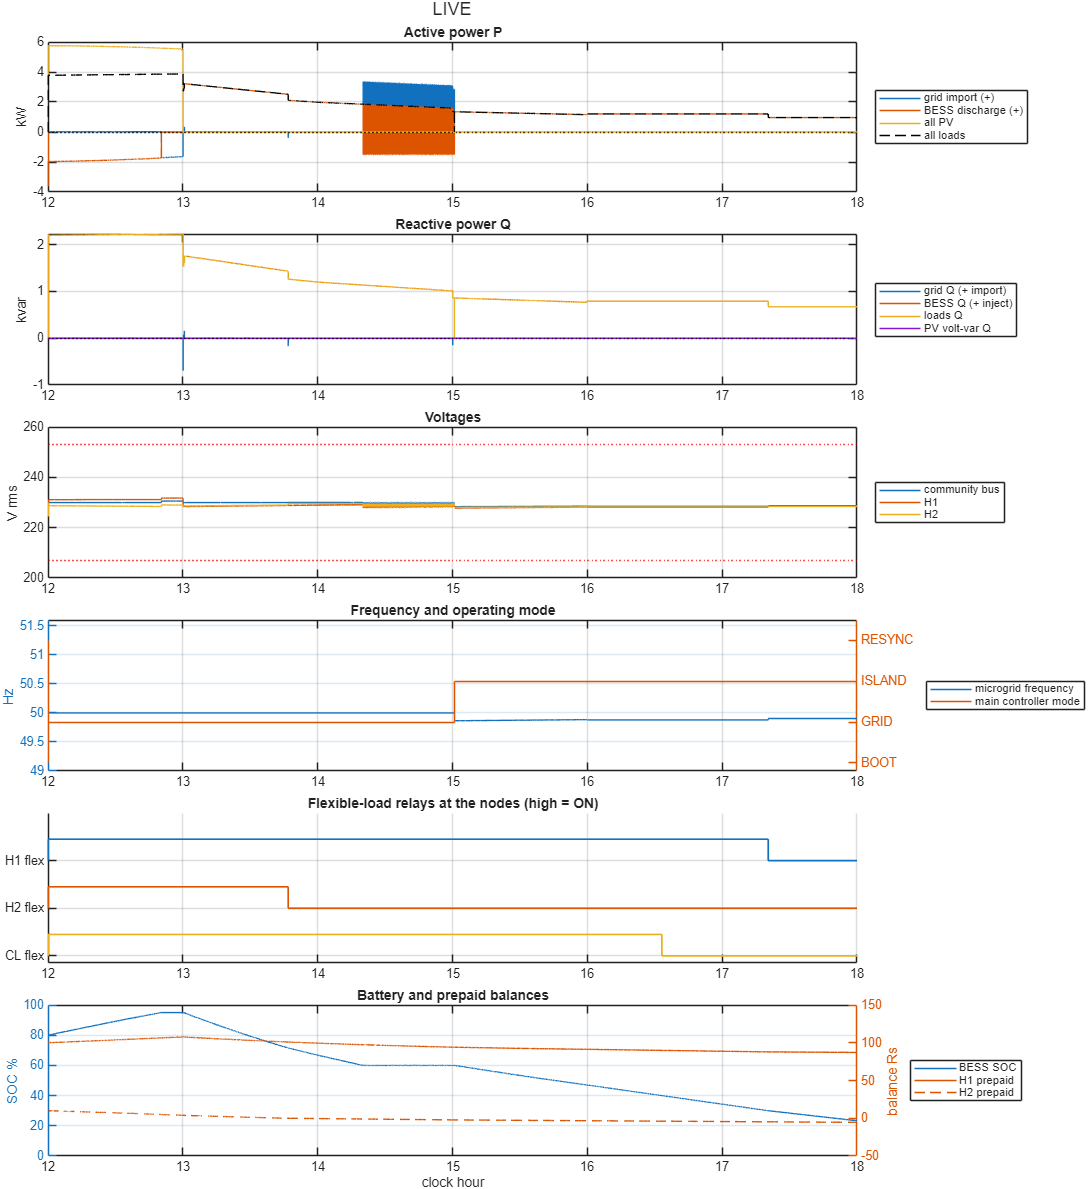
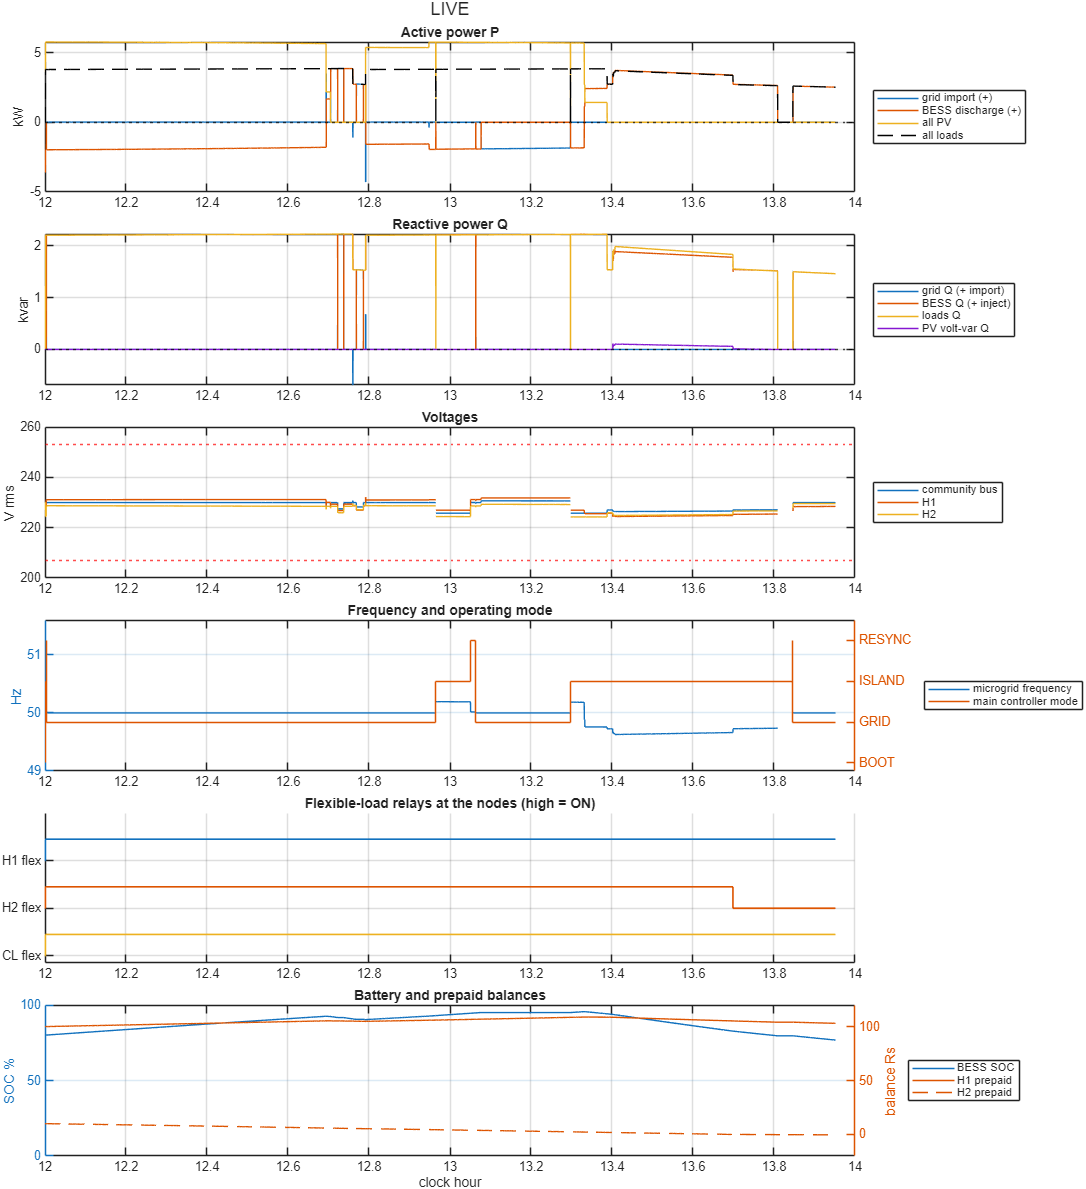
Live demo passed
v2 debugged

diff --git a/mg_hier/hil/live_panel.m b/mg_hier/hil/live_panel.m
@@ -1,13 +1,12 @@
 function f = live_panel()
 % LIVE_PANEL  Control panel for a live demo (run_hil_nodes / run_live_pi with SCEN = 'LIVE').
 % Left: WORLD knobs - change the simulated power system, like a bench.
-% Middle: REQUESTS - sent to the main controller exactly like dashboard buttons;
-%         it checks each one and may refuse it (the answer appears in the log).
+% (REQUESTS column removed for now: no dashboard/operator inputs in this demo.)
 % Right: live read-outs (mode, battery, grid, every node's relays, balances, log).
 live_inputs('reset');
 old = findall(groot, 'Tag', 'mgLivePanel'); delete(old);
-f = uifigure('Name', 'URJA microgrid - live demo panel', 'Position', [40 60 1060 680], 'Tag', 'mgLivePanel');
-g = uigridlayout(f, [1 3]); g.ColumnWidth = {300, 300, '1x'};
+f = uifigure('Name', 'URJA microgrid - live demo panel', 'Position', [40 60 900 680], 'Tag', 'mgLivePanel');
+g = uigridlayout(f, [1 2]); g.ColumnWidth = {320, '1x'};
 
 % ---------- WORLD ----------
 w = uipanel(g, 'Title', 'WORLD (simulated power system)', 'FontWeight', 'bold');
@@ -36,7 +35,7 @@ ids = {'H1', 'H2', 'CL', 'SB'};
 for k = 1:4
     uicheckbox(gw, 'Text', ['Cut link ' ids{k}], 'ValueChangedFcn', @(c,~) live_inputs('set_el', 'link_down', [k c.Value]));
 end
-uilabel(gw, 'Text', 'E-stop (virtual nodes)', 'FontWeight', 'bold'); uilabel(gw, 'Text', 'held = pressed');
+uilabel(gw, 'Text', 'E-stop (any node)', 'FontWeight', 'bold'); uilabel(gw, 'Text', 'held = pressed');
 for k = 1:4
     uibutton(gw, 'state', 'Text', ['E-STOP ' ids{k}], 'ValueChangedFcn', @(b,~) live_inputs('set_el', 'estop', [k b.Value]));
 end
@@ -46,20 +45,10 @@ end
 uilabel(gw, 'Text', 'RFID card at H2', 'FontWeight', 'bold'); uilabel(gw, 'Text', '');
 uibutton(gw, 'Text', 'Tap valid card (+Rs 20)', 'ButtonPushedFcn', @(~,~) live_inputs('tap', 2, 2712847106));
 uibutton(gw, 'Text', 'Tap wrong card',          'ButtonPushedFcn', @(~,~) live_inputs('tap', 2, 305419896));
+uilabel(gw, 'Text', ''); uilabel(gw, 'Text', '');
+uibutton(gw, 'Text', 'STOP run', 'BackgroundColor', [1 .8 .8], 'ButtonPushedFcn', @(~,~) live_inputs('set', 'stop', 1));
 
-% ---------- REQUESTS ----------
-r = uipanel(g, 'Title', 'REQUESTS to the main controller', 'FontWeight', 'bold');
-gr = uigridlayout(r, [9 1]); gr.RowHeight = repmat({30}, 1, 9);
-uilabel(gr, 'Text', 'Operator (main dashboard)', 'FontWeight', 'bold');
-uibutton(gr, 'Text', 'Restrict CL pump 10 min',  'ButtonPushedFcn', @(~,~) req('op', 'restrict', 'CL', 1, 600));
-uibutton(gr, 'Text', 'Restrict H2 flexible 10 min', 'ButtonPushedFcn', @(~,~) req('op', 'restrict', 'H2', 1, 600));
-uibutton(gr, 'Text', 'Release all restrictions', 'ButtonPushedFcn', @(~,~) cellfun(@(t) req('op', 'restrict', t, 0, 0), {'H1','H2','CL'}));
-uibutton(gr, 'Text', 'TRY: cut H2 critical load (must be refused)', 'ButtonPushedFcn', @(~,~) req('op', 'cut_critical', 'H2', 1, 60));
-uilabel(gr, 'Text', 'Household H1 (user dashboard)', 'FontWeight', 'bold');
-uibutton(gr, 'Text', 'H1: switch my flexible load off 5 min', 'ButtonPushedFcn', @(~,~) req('user/H1', 'user_flex', 'H1', 0, 300));
-uibutton(gr, 'Text', 'TRY: H1 switches off H2 (must be refused)', 'ButtonPushedFcn', @(~,~) req('user/H1', 'user_flex', 'H2', 0, 300));
-uibutton(gr, 'Text', 'STOP run', 'BackgroundColor', [1 .8 .8], 'ButtonPushedFcn', @(~,~) live_inputs('set', 'stop', 1));
-
+gw.RowHeight = repmat({22}, 1, numel(gw.RowHeight)); gw.RowSpacing = 4; gw.Scrollable = 'on';   % scroll if the window is short
 % ---------- READ-OUTS ----------
 s = uipanel(g, 'Title', 'LIVE STATUS', 'FontWeight', 'bold');
 gs = uigridlayout(s, [3 1]); gs.RowHeight = {150, 110, '1x'};

diff --git a/mg_hier/hil/node_exchange_twin.m b/mg_hier/hil/node_exchange_twin.m
@@ -6,7 +6,12 @@ function f = node_exchange_twin(lk, id, P, lcd)
 if nargin < 4, lcd = false; end
 role = find(strcmp([P.load_id, {'SB'}], id));
 if strcmp(id, 'SB'), st = node_sb_init(); else, st = node_load_init(); end
+lost = false; lost_at = 0; RETRY_TICKS = 40;   % board dropped: the twin stands in, retry every 40 ticks
     function reply = xch(line, seq)
+        if lost
+            if seq - lost_at >= RETRY_TICKS, try_reconnect(seq); end
+            if lost, reply = twin_only(line, seq); return; end
+        end
         if strcmp(line, 'R')                     % technician reset: board and twin start over
             writeline(lk.sp, 'R'); t0 = tic;
             while toc(t0) < 3 && ~strcmp(strtrim(readline(lk.sp)), 'READY'), end
@@ -17,7 +22,17 @@ if strcmp(id, 'SB'), st = node_sb_init(); else, st = node_load_init(); end
             di = display_info('get');
             writeline(lk.sp, sprintf('D,%d,%d,%.1f,%d', seq, di.mode, di.total_w, role));
         end
-        reply = node_link_exchange(lk, line, seq);
+        es_panel = 0;                            % live-panel E-stop button for this node -> board (S line, no reply)
+        try, li = live_inputs('get'); es_panel = double(li.estop(role) > 0); catch, end
+        try, writeline(lk.sp, sprintf('S,%d', es_panel)); catch, end
+        try
+            reply = node_link_exchange(lk, line, seq);
+        catch e
+            fprintf(2, '\n*** %s board on %s lost at tick %d (%s).\n    MATLAB twin stands in for it; reconnect tried every %d ticks.\n', ...
+                    id, lk.port, seq, e.message, RETRY_TICKS);
+            lost = true; lost_at = seq;
+            reply = twin_only(line, seq); return;
+        end
         % the E-stop button is on the board, so the twin learns it from the reply
         % (hstate 3 / clamped 2) and must then behave identically
         if line(1) == 'L'
@@ -32,6 +47,35 @@ if strcmp(id, 'SB'), st = node_sb_init(); else, st = node_load_init(); end
         node_twin_count('add', ~strcmp(reply, ref));
         if ~strcmp(reply, ref) && node_twin_count('get') <= 5
             fprintf('  %s tick %d differs\n    board: %s\n    twin : %s\n', id, seq, reply, ref);
+        end
+    end
+    function reply = twin_only(line, seq)
+        % board missing: the twin answers alone (same rules, no E-stop button)
+        if strcmp(line, 'R')
+            if strcmp(id, 'SB'), st = node_sb_init(); else, st = node_load_init(); end
+            reply = 'READY'; return;
+        end
+        if line(1) == 'L'
+            [st, r] = node_load_step(st, node_lines('dec_L', line), P.node, P.sim.dt, false);
+            reply = node_lines('enc_l', seq, r);
+        else
+            [st, r] = node_sb_step(st, node_lines('dec_B', line), P.node, P.bess, false);
+            reply = node_lines('enc_b', seq, r);
+        end
+    end
+    function try_reconnect(seq)
+        lost_at = seq; port = lk.port;
+        try, delete(lk.sp); catch, end
+        if ~any(serialportlist("available") == port)
+            fprintf(2, '    %s: %s not present yet (replug USB?)\n', id, port); return;
+        end
+        try
+            lk = node_link_open(port, P);            % board answers READY = fresh state
+            if strcmp(id, 'SB'), st = node_sb_init(); else, st = node_load_init(); end
+            lost = false;
+            fprintf('    %s board on %s back at tick %d (node state restarted: counters, lockouts)\n', id, port, seq);
+        catch e
+            fprintf(2, '    %s: reconnect failed (%s)\n', id, e.message);
         end
     end
 f = @xch;

diff --git a/mg_hier/pi/pi_link_open.m b/mg_hier/pi/pi_link_open.m
@@ -7,21 +7,56 @@ function link = pi_link_open(host, user, pass, port)
 % link.close()               disconnects
 % Needs the Industrial Communication Toolbox (mqttclient).
 if nargin < 4, port = 1883; end
-mq = mqttclient("tcp://" + string(host), Port = port, Username = string(user), ...
-                Password = string(pass), ClientID = "mgctl-matlab-" + string(randi(1e6)));
-assert(mq.Connected, 'could not connect to the Pi broker at %s:%d as %s', host, port, user);
-subscribe(mq, "mg/cmd/#", QualityOfService = 0);
-subscribe(mq, "mg/sim/#", QualityOfService = 0);   % demo bench knobs
+cfg = struct('host', string(host), 'port', port, 'user', string(user), 'pass', string(pass));
+mq = connect(cfg);
+assert(~isempty(mq), 'could not connect to the Pi broker at %s:%d as %s', host, port, user);
+H = containers.Map();                     % handle: lets publish/fetch swap in a reconnected client
+H('mq') = mq; H('fails') = 0; H('t_retry') = tic;
 link.mq = mq;
-link.publish = @(topic, json) write(mq, string(topic), string(json));
-link.fetch = @() fetch_all(mq);
-link.close = @() clear_link(mq);
+link.publish = @(topic, json) safe_publish(H, cfg, topic, json);
+link.fetch = @() fetch_all(H);
+link.close = @() clear_link(H('mq'));
 fprintf('Connected to the Pi broker %s:%d as %s (subscribed to mg/cmd/#)\n', host, port, user);
 end
 
-function rx = fetch_all(mq)
+function mq = connect(cfg)
+% open the client and subscribe; [] if the broker cannot be reached
+mq = [];
+try
+    c = mqttclient("tcp://" + cfg.host, Port = cfg.port, Username = cfg.user, ...
+                   Password = cfg.pass, ClientID = "mgctl-matlab-" + string(randi(1e6)));
+    if ~c.Connected, return; end
+    subscribe(c, "mg/cmd/#", QualityOfService = 0);
+    subscribe(c, "mg/sim/#", QualityOfService = 0);   % demo bench knobs
+    mq = c;
+catch
+end
+end
+
+function safe_publish(H, cfg, topic, json)
+% publish; if the broker link is down, keep the simulation running, warn, and
+% try to reconnect at most every 5 s (messages during the gap are dropped)
+try
+    write(H('mq'), string(topic), string(json));
+    if H('fails') > 0
+        fprintf('MQTT: publishing again after %d failed messages\n', H('fails')); H('fails') = 0;
+    end
+catch e
+    H('fails') = H('fails') + 1;
+    if H('fails') == 1, fprintf(2, 'MQTT: publish failed (%s). Sim keeps running; reconnecting...\n', e.message); end
+    if toc(H('t_retry')) > 5
+        H('t_retry') = tic;
+        try, delete(H('mq')); catch, end
+        mq = connect(cfg);
+        if ~isempty(mq), H('mq') = mq; fprintf('MQTT: reconnected to %s\n', cfg.host);
+        else, fprintf(2, 'MQTT: broker %s still unreachable (%d messages dropped)\n', cfg.host, H('fails')); end
+    end
+end
+end
+
+function rx = fetch_all(H)
 rx = struct('topic', {}, 'data', {});
-tt = read(mq);                                  % everything received since the last read
+try, tt = read(H('mq')); catch, return; end     % link down: no requests this tick
 for k = 1:height(tt)
     rx(end+1) = struct('topic', char(tt.Topic(k)), 'data', char(tt.Data(k))); %#ok<AGROW>
 end

diff --git a/mg_hier/hil/run_live_pi.m b/mg_hier/hil/run_live_pi.m
@@ -2,14 +2,18 @@
 % Publishes mg/state, mg/node/*, mg/house/*/account, mg/event, mg/ack/* and
 % obeys (after its own checks) the requests that arrive on mg/cmd/#.
 % Before: Pi on the same network, Mosquitto user mgctl created (setup doc, section 3).
-%PI_HOST = '10.30.23.55';        % <- Pi IP address (hostname -I on the Pi)
-PI_HOST = '192.168.0.107';        % <- Pi IP address (hostname -I on the Pi) on Life Router
+PI_HOST = '10.30.23.55';        % <- Pi IP address (hostname -I on the Pi)
+%PI_HOST = '192.168.0.107';        % <- Pi IP address (hostname -I on the Pi) on Life Router
 PI_USER = 'mgctl';
 PI_PASS = '';                   % <- typed here at run time; do not save it in the file
-PORTS   = {};                   % e.g. {'H1','COM14'; 'SB','COM16'}; {} = all nodes virtual
-LCD_NODES = {};     % boards flashed with firmware_node/mg_node_lcd (16x2 I2C LCD), e.g. {'H1','SB'}
+PORTS   = {'H1','COM21'; 'H2','COM15'; 'SB','COM16';'CL','COM14'};                   % e.g. {'H1','COM14'; 'SB','COM16'}; {} = all nodes virtual
+%PORTS   = {'H2','COM15'; 'SB','COM16';'CL','COM14'};                   % e.g. {'H1','COM14'; 'SB','COM16'}; {} = all nodes virtual
+LCD_NODES = {'H1','H2','SB','CL'};     % boards flashed with firmware_node/mg_node_lcd (16x2 I2C LCD), e.g. {'H1','SB'}
 SCEN    = 'S11_demo_outage';               % 'LIVE' = you pull the grid with the panel / dashboard; or e.g. 'S11_demo_outage'
+%SCEN    = 'LIVE';               % 'LIVE' = you pull the grid with the panel / dashboard; or e.g. 'S11_demo_outage'
 PACE_S  = 0.25;                 % seconds per tick (1 = real time; 0.25 = 4x faster; 0 = as fast as possible)
+DASH_INPUTS = false;            % false = ignore everything arriving on mg/cmd/# and mg/sim/# (dashboard is display-only)
+SOC0    = [0.45];                   % battery state of charge at start, 0..1 (e.g. 0.30); [] = scenario default (LIVE 0.80)
 % Leave PI_HOST = '' to run without the Pi (panel + boards only).
 
 root = fileparts(fileparts(mfilename('fullpath')));
@@ -17,11 +21,13 @@ for f = {'params','plant','nodes','main','comms','pi','sim','tests','tools','hil
 delete(serialportfind);   % free ports an earlier (crashed) run left open
 P = hier_params();
 if strcmp(SCEN, 'LIVE'), sc = live_scenario(P); panel = live_panel(); else, S = define_scenarios_h(P); sc = S(strcmp({S.name}, SCEN)); end
+if ~isempty(SOC0), sc.soc0 = SOC0; end
 link = [];
 if ~isempty(PI_HOST)
     if isempty(PI_PASS), PI_PASS = input('mgctl password: ', 's'); end
     link = pi_link_open(PI_HOST, PI_USER, PI_PASS); clear PI_PASS
     cl1 = onCleanup(@() link.close());
+    if ~DASH_INPUTS, link.fetch = @() struct('topic', {}, 'data', {}); end   % publish only, no inputs
 end
 node_id = [P.load_id, {'SB'}]; ex = cell(1, numel(node_id)); boards = {};
 node_twin_count('reset');

diff --git a/mg_hier/hil/node_link_open.m b/mg_hier/hil/node_link_open.m
@@ -1,15 +1,32 @@
 function link = node_link_open(port, P)
 % NODE_LINK_OPEN  Open one node ESP32 on a USB serial port and reset it.
+% Sends 'R' up to 8 times (1 s apart) and waits for READY; tolerates silence
+% (readline returns [] on timeout) and boot chatter. Says which port failed.
 link.port = port;
-link.sp = serialport(port, P.sim.baud, 'Timeout', P.sim.timeout_s);
+fprintf('Opening node on %s ... ', port);
+link.sp = serialport(port, P.sim.baud, 'Timeout', 1);
 configureTerminator(link.sp, 'LF');
-pause(2.0);                                 % the ESP32 reboots when the port opens
+pause(2.5);                                 % the ESP32 reboots when the port opens (LCD init adds time)
 flush(link.sp);
-writeline(link.sp, 'R');
-t0 = tic; ok = false;
-while toc(t0) < 5
-    s = strtrim(readline(link.sp));
-    if strcmp(s, 'READY'), ok = true; break; end
+ok = false; heard = strings(0);
+ws = warning('off', 'all');                 % silence the readline timeout warnings while probing
+for attempt = 1:8
+    writeline(link.sp, 'R');
+    t0 = tic;
+    while toc(t0) < 1
+        s = readline(link.sp);
+        if isempty(s), break; end
+        s = strtrim(string(s));
+        if s == "READY", ok = true; break; end
+        if strlength(s) > 0, heard(end+1) = s; end %#ok<AGROW>
+    end
+    if ok, break; end
 end
-assert(ok, 'node on %s did not answer READY (sketch flashed? right port?)', port);
+warning(ws);
+link.sp.Timeout = P.sim.timeout_s;
+if ok, fprintf('READY\n'); return; end
+delete(link.sp);
+if isempty(heard), what = 'nothing'; else, what = strjoin(heard(max(1,end-2):end), ' | '); end
+error('node on %s did not answer READY after 8 tries (heard: %s).\nCheck: right COM port for this role? sketch mg_node / mg_node_lcd flashed? baud %d? Arduino Serial Monitor closed?', ...
+      port, what, P.sim.baud);
 end

diff --git a/mg_hier/main/main_step.m b/mg_hier/main/main_step.m
@@ -35,6 +35,13 @@ m = in.pcc;
 vg = m.v_grid / V0;
 grid_ok   = vg >= C.V_ok_lo && vg <= C.V_ok_hi && m.f_grid >= C.F_ok_lo && m.f_grid <= C.F_ok_hi;
 grid_lost = vg < C.V_lost;
+% blackout message: community bus dead for 3+ ticks after boot (ignores the 1-tick dip when the grid fails)
+if st.mode ~= 0 && m.v_c < C.V_lost * V0, st.n_dark = st.n_dark + 1; else, st.n_dark = 0; end
+if (st.n_dark >= 3) ~= st.dark
+    st.dark = double(st.n_dark >= 3);
+    if st.dark, tx = 'BLACKOUT: community bus is dead (battery stopped, no grid)'; else, tx = 'Power restored to the community bus'; end
+    o.events{end+1} = struct('type', 'protection', 'node', 'MAIN', 'text', tx);
+end
 if grid_ok
     st.n_good = st.n_good + 1; st.n_bad = 0;
 else

diff --git a/mg_hier/results/tmp/quick_check.m b/mg_hier/results/tmp/quick_check.m
@@ -1,0 +1,16 @@
+function quick_check()
+root = 'D:\Amogh\MATLAB_Projects\Commuinty_Micro_Grid\mg_hier'; cd(root);
+dfile = fullfile(root,'results','tmp','quick_check.txt'); if exist(dfile,'file'), delete(dfile); end
+diary(dfile);
+try
+addpath(genpath(root)); rmpath(genpath(fullfile(root,'results')));
+P = hier_params(); S = define_scenarios_h(P);
+for k = [2 10 11]
+  R = run_hier(S(k), P); [ok,msg] = check_h(R, P);
+  fprintf('%s pass=%d\n', S(k).name, ok); if ~ok, disp(msg); end
+  try, ev = R.PI.events; catch, ev = {}; end
+  for i = 1:numel(ev), if contains(ev{i},'BLACKOUT') || contains(ev{i},'restored'), disp(ev{i}); end, end
+end
+catch err, disp(getReport(err)); end
+disp('QUICK_DONE'); diary off;
+end

diff --git a/mg_hier/main/main_init.m b/mg_hier/main/main_init.m
@@ -19,5 +19,5 @@ st.price = P.ctrl.price_default;
 st.ai_active = 0; st.ai_age = 0; st.ai_p = 0;
 st.ids = nan(1, P.ctrl.N_ids); st.id_ptr = 0;                % recently seen command ids
 st.p2p = zeros(n + 1, n);                                   % [Wh] sold by (H1..Hn, C) to house j
-st.prev_hstate = zeros(1,nL); st.sb_estop = 0;
+st.prev_hstate = zeros(1,nL); st.sb_estop = 0; st.dark = 0; st.n_dark = 0;
 end

diff --git a/mg_hier/hil/node_link_exchange.m b/mg_hier/hil/node_link_exchange.m
@@ -11,7 +11,7 @@ while true
         v = sscanf(s(3:end), '%f', 1);
         if v == seq, reply = s; return; end
     end
-    assert(~startsWith(s, 'E,'), 'node on %s: %s at tick %d', link.port, s, seq);
+    assert(~startsWith(s, 'E,') || strcmp(s, 'E,unknown'), 'node on %s: %s at tick %d', link.port, s, seq);
     assert(toc(t0) < 5, 'node on %s: wrong replies at tick %d', link.port, seq);
 end
 end
